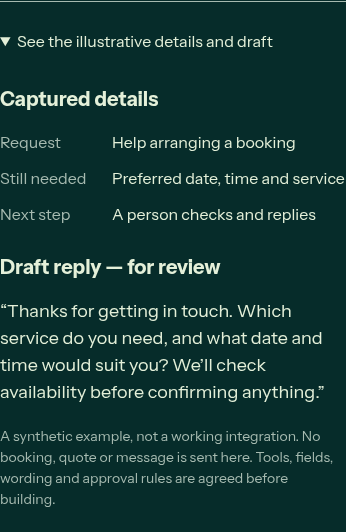
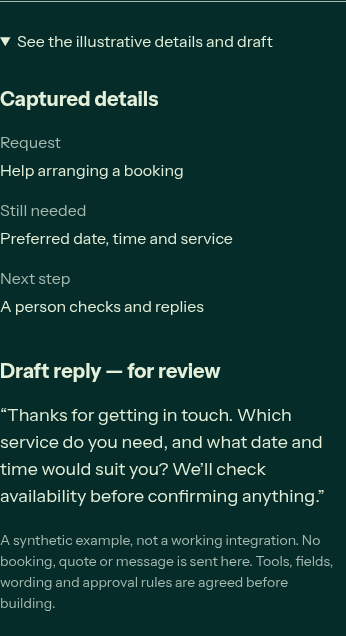
Keep illustrative details readable with enlarged mobile text

diff --git a/src/styles/signature.css b/src/styles/signature.css
@@ -159,3 +159,7 @@
  .lv-signature-review strong{font-size:14px}
  .lv-signature-output{scroll-margin-top:20px}
 }
+@media(max-width:599px){
+ .lv-signature-output dl{grid-template-columns:minmax(0,1fr);gap:4px}
+ .lv-signature-output dd{margin-bottom:12px}
+}

diff --git a/docs/SIGNATURE-OPENING-REVIEW.md b/docs/SIGNATURE-OPENING-REVIEW.md
@@ -20,7 +20,7 @@ These implement the subsequent creative/UX panel instructions and should be reco
 - The reversible switch is directly above the demonstration, including mobile, instead of below the changed artwork. Both states retain the same visible enquiry, details, draft and human-approval objects.
 - A keyboard-operable disclosure shows concrete synthetic captured details and a draft reply. It states the missing date/time/service, does not confirm availability, and explicitly says no booking, quote or message is sent here.
 - Mobile uses 12 selected original paths from each 44-path sculpture: indices 0, 4, 8, 12, 16, 20, 24, 28, 32, 36, 40 and 43. Original path geometry/colors are preserved; the other paths are omitted to reduce dense visual interference. Unmodified mobile exports are retained in the evidence directory. Desktop keeps all 44 paths.
-- Mobile labels flow in a column over the decorative strands rather than shrinking with the drawing. The composition stacks below 1200px; intermediate desktop widths receive extra vertical separation. Labels are at least 12px, human approval 18px desktop/14px mobile and controls at least 52px tall. Enlarged text can wrap the header and heading.
+- Mobile labels flow in a column over the decorative strands rather than shrinking with the drawing. The composition stacks below 1200px; intermediate desktop widths receive extra vertical separation. Labels are at least 12px, human approval 18px desktop/14px mobile and controls at least 52px tall. Enlarged text can wrap the header and heading. Captured-detail fields stack on narrow screens, with an explicit 200% text non-overlap assertion.
 - The native switch uses pressed states, keyboard Enter/Space plus arrows/Home/End, retained focus and a polite state announcement. Resizing preserves the chosen state. The demonstration performs no network writes.
 - Original sculpture states crossfade/translate over 850ms; connected labels settle in a finite sequence by 1.65s using `cubic-bezier(.22,1,.36,1)`. This is a reversible transition between original vector states, not per-path morphing or a simulated live processing system. Rapid reversals settle to the selected state. Reduced motion removes transitions, animation and delayed labels immediately.
 
